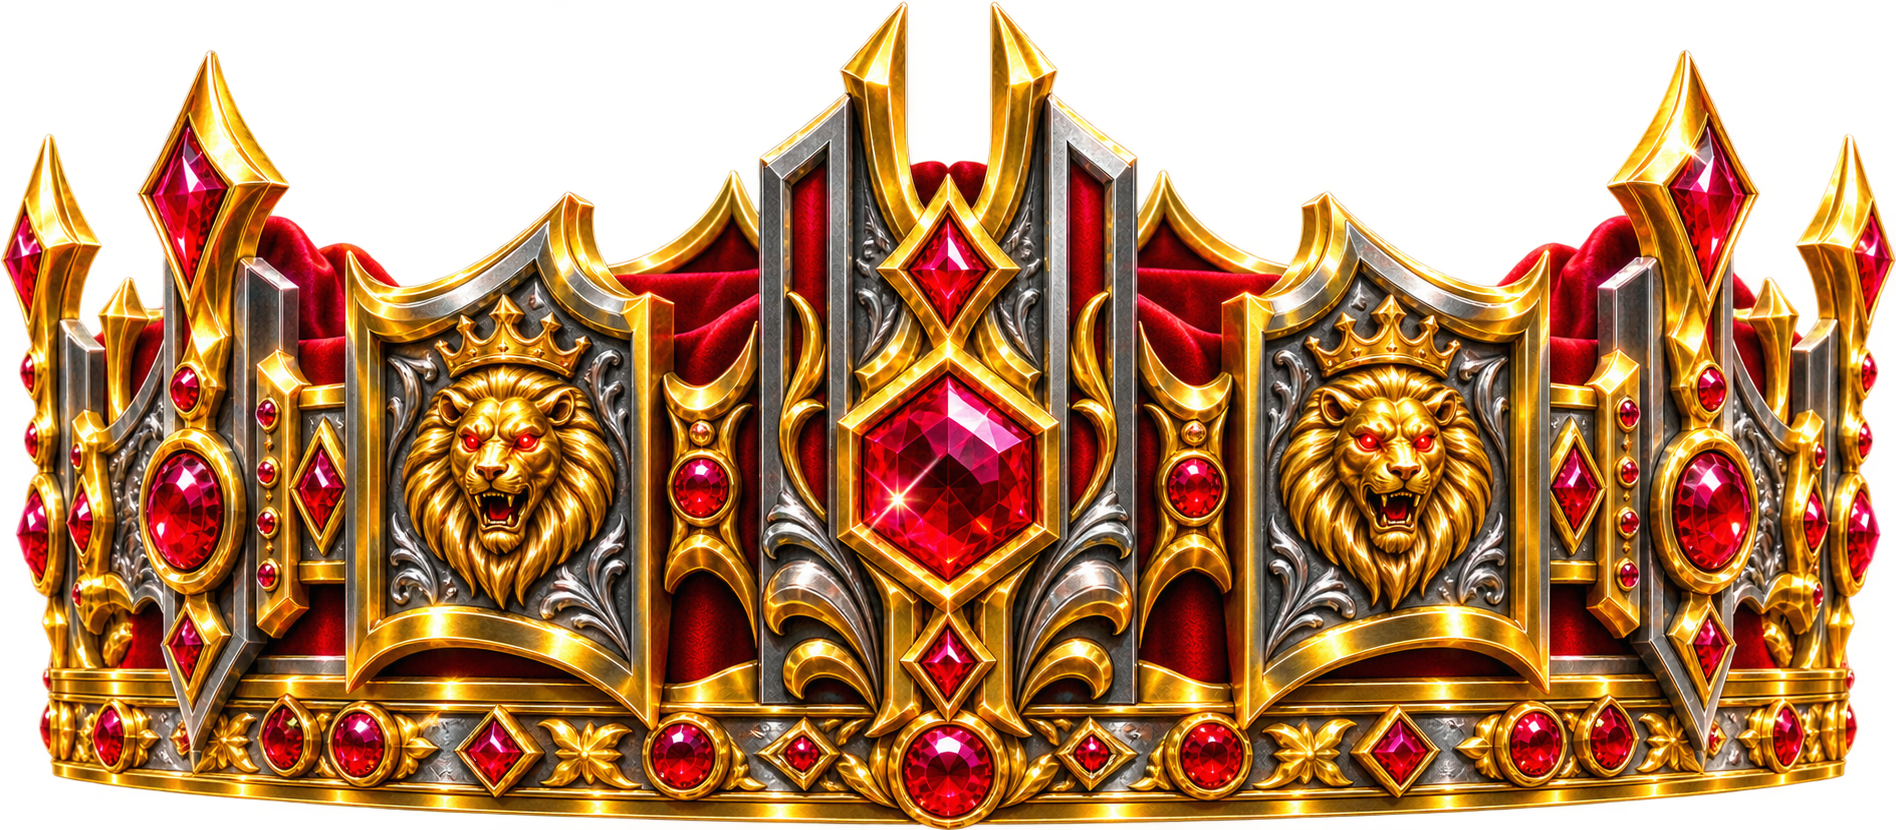
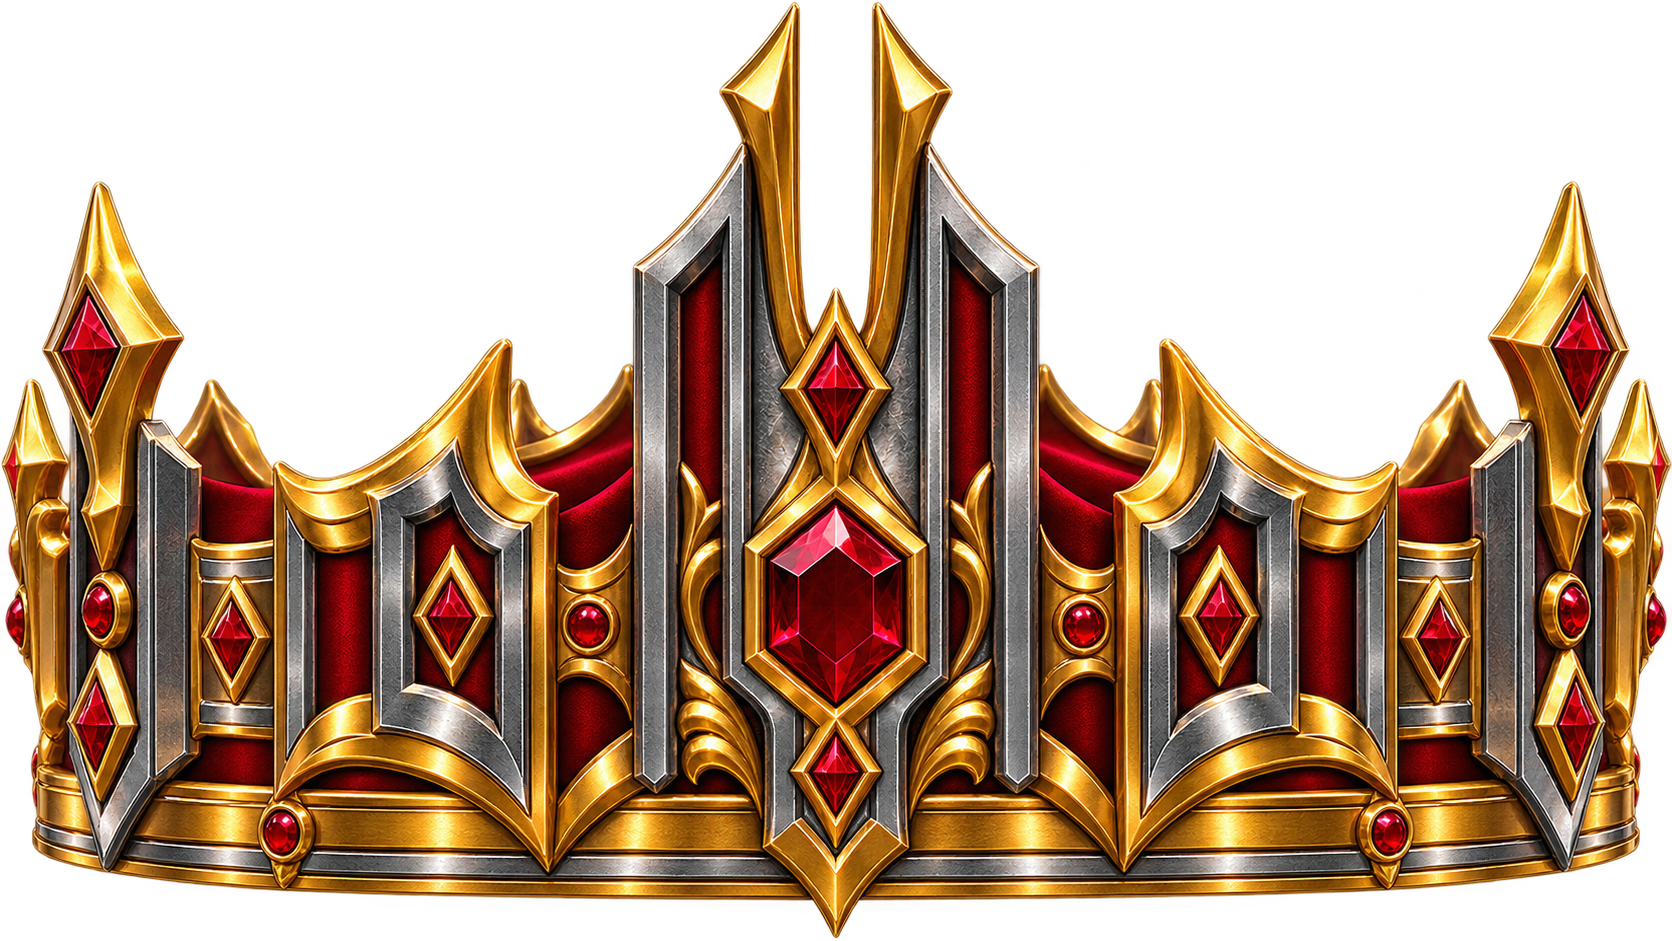
feat: add custom rank badges and restore RankCrown.png

diff --git a/app/components/user/PlayerRankingView.jsx b/app/components/user/PlayerRankingView.jsx
@@ -161,9 +161,9 @@ function PodiumStep({ player, rank, height, trend, delay }) {
                 >
                   <div 
                     className="relative w-full h-full"
-                    style={{ maskImage: "url('/assets/winnercrown.png')", maskSize: "contain", maskRepeat: "no-repeat", maskPosition: "center", WebkitMaskImage: "url('/assets/winnercrown.png')", WebkitMaskSize: "contain", WebkitMaskRepeat: "no-repeat", WebkitMaskPosition: "center" }}
+                    style={{ maskImage: "url('/assets/RankCrown.png')", maskSize: "contain", maskRepeat: "no-repeat", maskPosition: "center", WebkitMaskImage: "url('/assets/RankCrown.png')", WebkitMaskSize: "contain", WebkitMaskRepeat: "no-repeat", WebkitMaskPosition: "center" }}
                   >
-                    <img src="/assets/winnercrown.png" alt="Rank 1 Crown" className="w-full h-full object-contain" />
+                    <img src="/assets/RankCrown.png" alt="Rank 1 Crown" className="w-full h-full object-contain" />
                     <motion.div 
                       animate={{ x: ['-200%', '300%'] }}
                       transition={{ repeat: Infinity, duration: 2.5, ease: "linear", repeatDelay: 1.5 }}
@@ -196,8 +196,14 @@ function PodiumStep({ player, rank, height, trend, delay }) {
           ) : (
             <Avatar p={player} size={56} className="border-4 border-background shadow-2xl" />
           )}
-          <div className={`absolute -bottom-1 -right-1 z-20 w-7 h-7 sm:w-8 sm:h-8 rounded-full bg-background flex items-center justify-center border-2 border-border/50 shadow-lg ${medalColors[rank]}`}>
-            <Medal size={16} strokeWidth={2.5} />
+          <div className="absolute -bottom-3 -right-3 z-20 w-12 h-12 sm:w-14 sm:h-14 flex items-center justify-center drop-shadow-lg hover:scale-110 transition-transform">
+            {rank <= 3 ? (
+              <img src={`/assets/rankbadge/rank${rank}.png`} alt={`Rank ${rank}`} className="w-full h-full object-contain" />
+            ) : (
+              <div className={`w-8 h-8 rounded-full bg-background flex items-center justify-center border-2 border-border/50 shadow-lg ${medalColors[rank]}`}>
+                <Medal size={16} strokeWidth={2.5} />
+              </div>
+            )}
           </div>
         </div>
         <div className="text-center px-1 flex flex-col items-center w-full">

diff --git a/app/components/shared/StandingsTable.jsx b/app/components/shared/StandingsTable.jsx
@@ -9,19 +9,13 @@ import clubsData from '@/lib/data/clubs.json';
 
 import { getPlayerIdentityBadgeUrl } from '@/lib/identityUtils';
 const RankMedal = ({ rank }) => {
-  if (rank === 1) {
+  if (rank <= 3) {
     return (
-      <div className="relative flex items-center justify-center">
-        <div className="absolute w-8 h-8 bg-yellow-500/20 rounded-full blur-md animate-pulse"></div>
-        <Medal className="text-yellow-400 drop-shadow-[0_0_8px_rgba(250,204,21,0.6)] relative z-10" size={26} strokeWidth={2.5} />
+      <div className="relative flex items-center justify-center mx-auto w-10 h-10 sm:w-12 sm:h-12 drop-shadow-md">
+        {rank === 1 && <div className="absolute w-8 h-8 bg-yellow-500/20 rounded-full blur-md animate-pulse"></div>}
+        <img src={`/assets/rankbadge/rank${rank}.png`} alt={`Rank ${rank}`} className="w-full h-full object-contain relative z-10 hover:scale-110 transition-transform" />
       </div>
     );
-  }
-  if (rank === 2) {
-    return <Medal className="text-slate-300 drop-shadow-[0_0_4px_rgba(203,213,225,0.4)] mx-auto" size={24} strokeWidth={2} />;
-  }
-  if (rank === 3) {
-    return <Medal className="text-amber-600 drop-shadow-[0_0_4px_rgba(217,119,6,0.4)] mx-auto" size={24} strokeWidth={2} />;
   }
   return (
     <div className="w-[22px] h-[22px] rounded-full bg-black/40 border border-white/10 text-muted-foreground flex items-center justify-center text-[10px] font-bold mx-auto shadow-inner">
